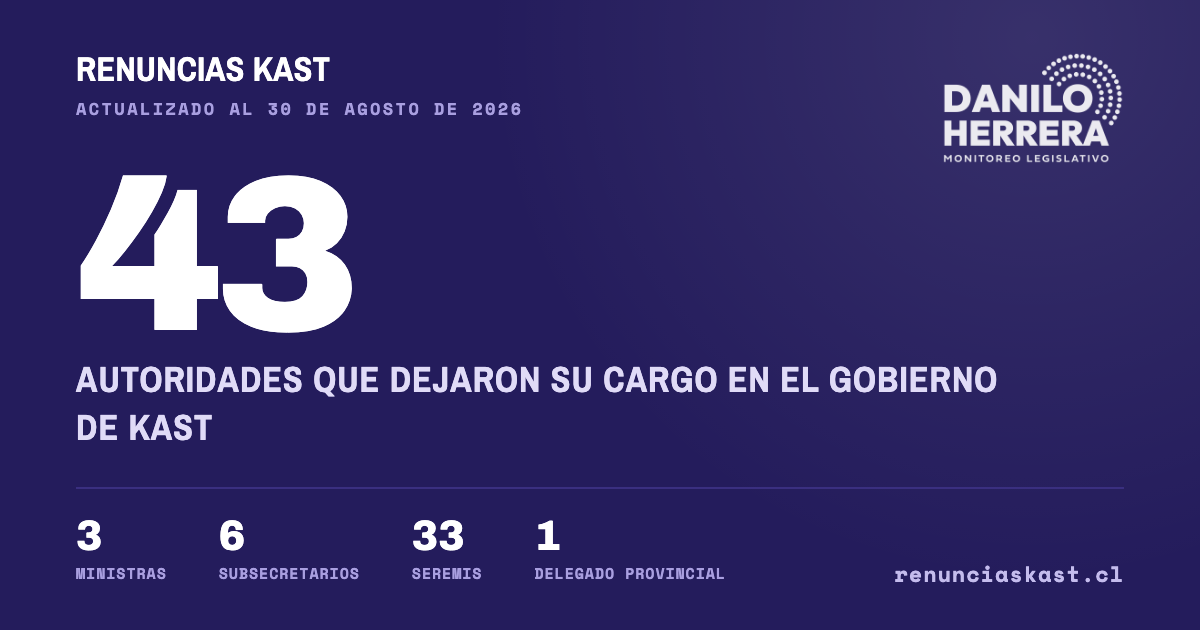
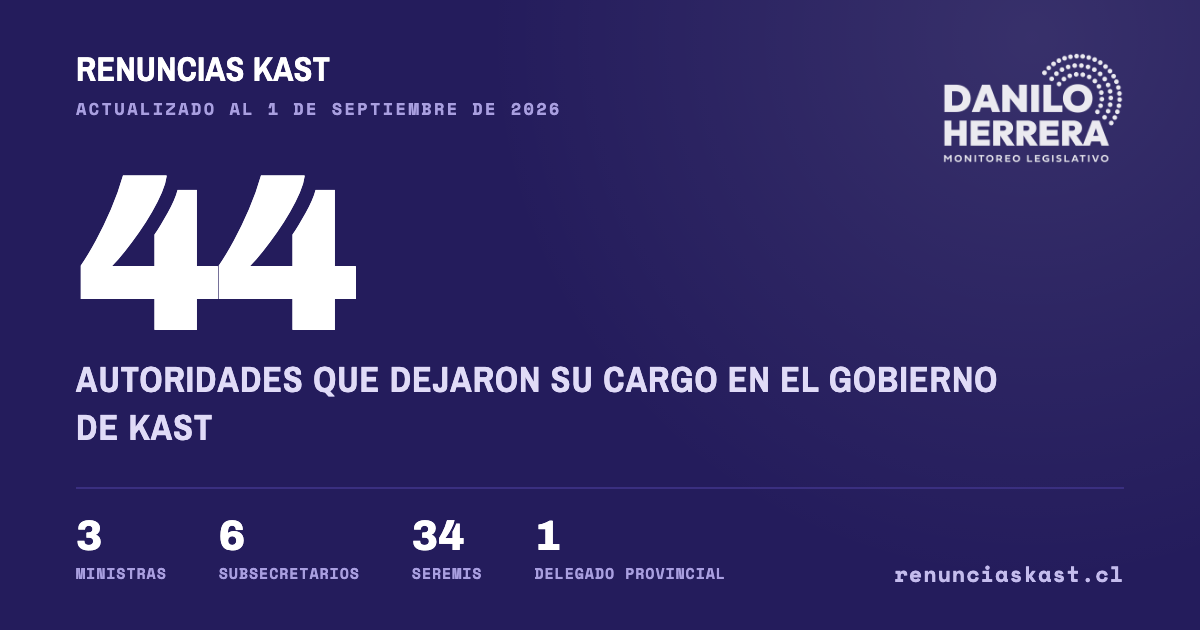
Agregar renuncia de Löhr y actualizar registro de Vergara
- Nueva entrada: Patricio Löhr, seremi de Transportes en Arica y
  Parinacota, renuncia pedida por presión indebida a la DGAC para
  favorecer a su empresa privada.
- Actualiza el registro de Marcelo Vergara: Hacienda confirmó que
  su test de drogas dio positivo, aunque no entregó el informe
  completo.
- Actualiza total (44), seremis (34), fecha del header, reloj de
  "sin cambios" (reinicia desde la renuncia de Löhr) e imagen de
  redes sociales.

diff --git a/index.html b/index.html
@@ -184,7 +184,7 @@
     </div>
     <div class="sh-meta">
       <div><b>Fuente</b> Prensa</div>
-      <div><b>Actualización</b> 30 ago 2026</div>
+      <div><b>Actualización</b> 1 sep 2026</div>
     </div>
   </div>
 </header>
@@ -193,13 +193,13 @@
 <header class="hero">
   <div class="wrap">
     <div class="tracker">
-      <div class="meta">Actualizado al 30 de agosto de 2026</div>
-      <div class="big">43</div>
+      <div class="meta">Actualizado al 1 de septiembre de 2026</div>
+      <div class="big">44</div>
       <div class="cap">autoridades que dejaron su cargo en el gobierno de Kast</div>
       <div class="strip">
         <div><div class="sn">3</div><div class="sl">ministras</div></div>
         <div><div class="sn">6</div><div class="sl">subsecretarios</div></div>
-        <div><div class="sn">33</div><div class="sl">seremis</div></div>
+        <div><div class="sn">34</div><div class="sl">seremis</div></div>
         <div><div class="sn">1</div><div class="sl">delegado provincial</div></div>
         <div><div class="sn" id="avgDias">—</div><div class="sl">días de gobierno por salida</div></div>
       </div>
@@ -212,7 +212,7 @@
         <div class="ct-cell"><div class="ct-n" id="cMins">00</div><div class="ct-l">min</div></div>
         <div class="ct-cell"><div class="ct-n" id="cSecs">00</div><div class="ct-l">seg</div></div>
       </div>
-      <div class="ct-note">Desde la renuncia del delegado provincial de Chañaral, 14 ago 21:00</div>
+      <div class="ct-note">Desde la renuncia del seremi de Transportes de Arica y Parinacota, 1 sep 11:00</div>
     </div>
     <p class="method">Incluye renuncias, remociones, cambios de puesto y nombramientos que no llegaron a concretarse. Cada caso enlaza a una fuente de prensa.</p>
   </div>
@@ -347,7 +347,8 @@ const D = [
   {n:"Fabián Barrientos", tipo:"Seremi", terr:"Magallanes", min:"Salud", fecha:"25 jul", sk:725, jud:true, motivo:"Conductas indebidas", razon:"Renuncia pedida por el gobierno. Denuncia por un presunto delito de connotación sexual", medio:"La Tercera", url:"https://www.latercera.com/nacional/noticia/minsal-solicita-renuncia-del-seremi-de-salud-de-magallanes-en-medio-de-investigacion/"},
   {n:"Juan Pablo Rodríguez", tipo:"Subsecretario", sexo:"m", terr:"Nacional", min:"Hacienda", fecha:"23 jul", sk:723, jud:false, motivo:"Test de drogas", razon:"Removido tras dar positivo en test de drogas. Niega consumir y presentó un contraexamen negativo de la U. Católica", medio:"La Tercera", url:"https://www.latercera.com/politica/noticia/no-refleja-mi-realidad-exsubsecretario-de-hacienda-afirma-que-no-consume-drogas-y-atribuye-a-un-error-el-test-positivo-que-motivo-su-salida/"},
   {n:"Eduardo Leiva", tipo:"Seremi", terr:"Los Lagos", min:"Culturas", fecha:"22 jul", sk:722, jud:false, motivo:"Test de drogas", razon:"Renunció tras dar positivo en un examen de drogas. Niega consumir y presentó un contraexamen negativo de la U. de Chile", medio:"T13", url:"https://www.t13.cl/noticia/politica/exseremi-culturas-lagos-renuncio-tras-dar-positivo-examen-drogas-3-8-2026"},
-  {n:"Marcelo Vergara", tipo:"Seremi", terr:"Arica y Parinacota", min:"Hacienda", fecha:"17 jul", sk:717, jud:false, motivo:"Test de drogas", razon:"Renuncia voluntaria, en medio de dudas por su test de drogas, que se negó a exhibir", medio:"El Mostrador", url:"https://www.elmostrador.cl/noticias/pais/2026/07/21/renuncia-seremi-de-hacienda-en-medio-de-resistencia-a-exhibir-su-test-de-drogas/"},
+  {n:"Marcelo Vergara", tipo:"Seremi", terr:"Arica y Parinacota", min:"Hacienda", fecha:"17 jul", sk:717, jud:false, motivo:"Test de drogas", razon:"Renuncia voluntaria, en medio de dudas por su test de drogas. Hacienda confirmó que dio positivo, pero se negó a entregar el informe completo", medio:"El Mostrador", url:"https://www.elmostrador.cl/aqui-arica/2026/09/01/hacienda-confirma-test-positivo-de-drogas-a-exseremi-republicano-pero-no-entrega-resultados/"},
+  {n:"Patricio Löhr", tipo:"Seremi", terr:"Arica y Parinacota", min:"Transportes", fecha:"1 sep", sk:901, jud:false, sexo:"m", motivo:"Mal uso de recursos públicos", razon:"Renuncia pedida por el Gobierno tras denuncia de la DGAC por presunta presión a una funcionaria para favorecer el ingreso de su empresa privada al aeropuerto Chacalluta", medio:"El Mostrador", url:"https://www.elmostrador.cl/aqui-arica/2026/09/01/hacienda-confirma-test-positivo-de-drogas-a-exseremi-republicano-pero-no-entrega-resultados/"},
   {n:"Jorge Heiden", tipo:"Seremi", terr:"Arica y Parinacota", min:"Agricultura", fecha:"25 jun", sk:625, jud:false, motivo:"Test de drogas", razon:"Renunció tras dar positivo en test de drogas", medio:"El Dínamo", url:"https://www.eldinamo.cl/politica/2026/07/25/renuncia-de-seremi-extiende-la-seguidilla-de-bajas-del-gobierno/"},
   {n:"Marcia Raphael", tipo:"Seremi", terr:"Aysén", min:"Desarrollo Social", fecha:"16 jun", sk:616, jud:false, motivo:"Cambio dentro del gobierno", razon:"Cambio de puesto. Ascendida a subsecretaría de la Mujer", medio:"El Dínamo", url:"https://www.eldinamo.cl/politica/2026/07/25/renuncia-de-seremi-extiende-la-seguidilla-de-bajas-del-gobierno/"},
   {n:"Daniela Castro", tipo:"Subsecretario", sexo:"f", terr:"Nacional", min:"Mujer", fecha:"16 jun", sk:616, jud:false, motivo:"Conflictos internos", razon:"Renuncia pedida por tensiones con la ministra Marín", medio:"Meganoticias", url:"https://www.meganoticias.cl/nacional/524779-presidente-kast-pide-renuncia-subsecretaria-mujer-daniela-castro-ministra-marin-16-06-2026.html"},
@@ -455,7 +456,7 @@ render();
 // "UN CAMBIO CADA X DÍAS" y "SIN CAMBIOS" — ambos en vivo, recalculados cada segundo contra la hora actual.
 // Actualizar ÚLTIMO_CAMBIO (fecha y hora) cada vez que se agregue una salida nueva a D.
 const INICIO_GOBIERNO=new Date(2026,2,11); // 11 mar 2026, asunción del gobierno
-const ULTIMO_CAMBIO=new Date(2026,7,14,21,0,0); // 14 ago 2026, 21:00 — renuncia delegado Chañaral
+const ULTIMO_CAMBIO=new Date(2026,8,1,11,0,0); // 1 sep 2026, 11:00 — renuncia seremi de Transportes, Arica y Parinacota
 const totalCambios=D.filter(d=>d.sk>0).length;
 function tickCounter(){
   const now=new Date();
